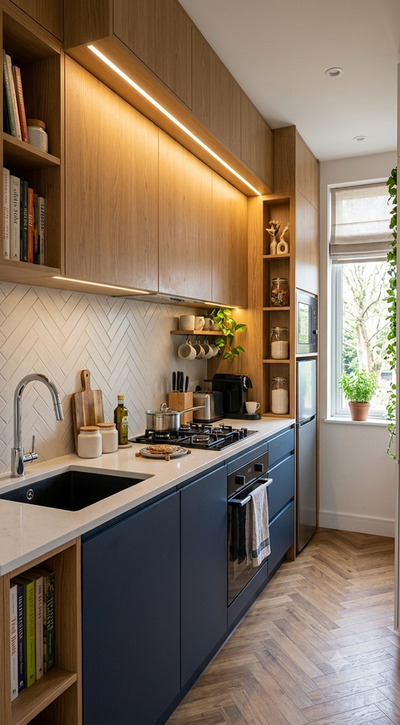
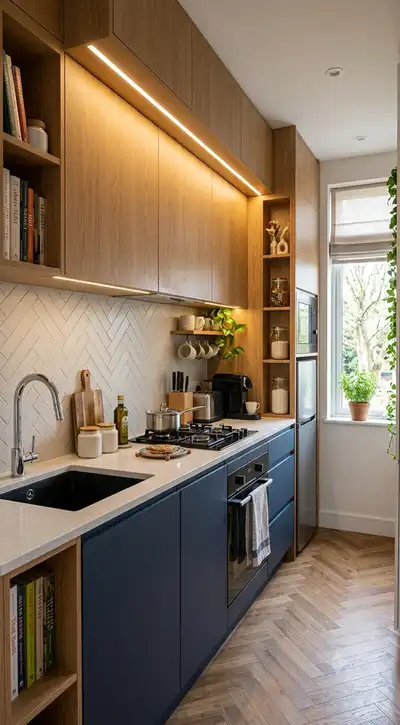
ajustei as imagens para que o site passe no lighthouse

diff --git a/projeto/estilos/moove.css b/projeto/estilos/moove.css
@@ -7,6 +7,7 @@
     --azul: #0171BFCC;
     --verde: #01ad38;
     --azulNeon:#00FFFF;
+    --textoBranco:#fff;
     --fonteTitulo: 'Poppins', 'Segoe UI', Arial, Helvetica, sans-serif;
     --fonteCorpo: 'Roboto', Arial, Helvetica, sans-serif;
 }
@@ -75,7 +76,7 @@ header {
     border: none;
     font-size: 2.5rem;
     background: none;
-    color: var(--fundoHeader);
+    color: var(--textoBranco);
     text-shadow: 0 0 5px var(--azul),
         0 0 10px var(--azul),
         0 0 15px var(--azul);
@@ -345,5 +346,5 @@ footer img {
 
 .botaoFooter a {
     text-decoration: none;
-    color: var(--fundoHeader);
+    color: var(--textoBranco);
 }

diff --git a/projeto/scripts/moove.js b/projeto/scripts/moove.js
@@ -125,6 +125,7 @@ function criarDepoimentos() {
         nome.textContent = cliente.nome;
 
         img.src = cliente.url
+        img.alt = cliente.nome
 
         estrelas.textContent = "⭐".repeat(cliente.avaliacao);
 
